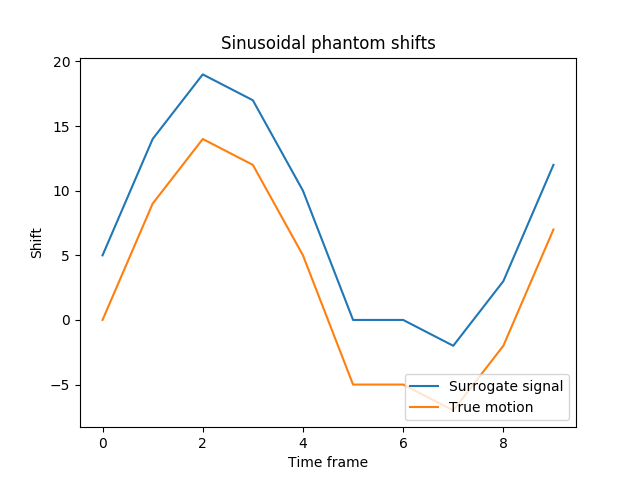
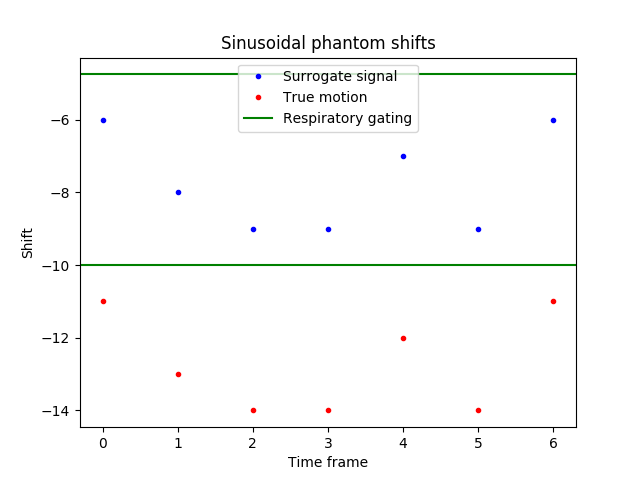
Implemented first version of gating

diff --git a/STIROefeningManon/MotionModelProjSpaceNoSTIR/MotionModelProjSpaceNoSTIR.py b/STIROefeningManon/MotionModelProjSpaceNoSTIR/MotionModelProjSpaceNoSTIR.py
@@ -14,17 +14,19 @@ motion = 'Sine'
 #stationary = True 
 stationary = False # Only possible for sinusoidal motion 
 
-nIt = 10 
+gating = True
+#gating = False 
+nIt = 3 
 trueShiftAmplitude = 15 # Kan niet alle waardes aannemen (niet alle shifts worden geprobeerd) + LET OP: kan niet groter zijn dan de lengte van het plaatje (kan de code niet aan) 
 trueOffset = 5
 numFigures = 0 
 duration = 60 # in seconds
 if (motion == 'Step'): nFrames = 2
-else: nFrames = 10
+else: nFrames = 40
 
 figSaveDir = mf.make_figSaveDir(motion, phantom, noise, stationary)
 
-mf.write_Configuration(figSaveDir, phantom, noise, motion, stationary, nIt, trueShiftAmplitude, trueOffset, duration, nFrames)
+mf.write_Configuration(figSaveDir, phantom, noise, motion, stationary, nIt, trueShiftAmplitude, trueOffset, duration, nFrames, gating)
 
 #_________________________MAKE PHANTOM_______________________________
 image2D = mf.make_Phantom(phantom, duration)
@@ -32,16 +34,19 @@ plt.figure(), plt.title('Original image'), plt.imshow(image2D, interpolation = N
 numFigures += 1
  
 #_________________________ADD MOTION_______________________________ 
-phantomList, surSignal, shiftList = mf.move_Phantom(motion, nFrames, trueShiftAmplitude, trueOffset, image2D, stationary)
+phantomList, surSignal, shiftList = mf.move_Phantom(motion, nFrames, trueShiftAmplitude, trueOffset, image2D, stationary, gating)
 originalImage = phantomList[0]
 
-for iFrame in range(nFrames):    
+for iFrame in range(len(phantomList)):    
     plt.subplot(2,nFrames/2+1,iFrame+1), plt.title('Time frame {0}'.format(iFrame)), plt.imshow(phantomList[iFrame][0,:,:], interpolation=None, vmin = 0, vmax = np.max(image2D)) 
 plt.suptitle('Phantom'), plt.savefig(figSaveDir + 'Fig{}_TrueShift{}_phantom.png'.format(numFigures, trueShiftAmplitude)), plt.close()
 numFigures += 1 
  
-plt.plot(range(nFrames), surSignal, label = 'Surrogate signal'), plt.title('Sinusoidal phantom shifts'), plt.xlabel('Time frame'), plt.ylabel('Shift')
-plt.plot(range(nFrames), shiftList, label = 'True motion'), plt.legend(loc = 4), plt.savefig(figSaveDir + 'Fig{}_TrueShift{}_shiftList.png'.format(numFigures, trueShiftAmplitude)), plt.close()
+plt.plot(range(len(surSignal)), surSignal, 'bo', label = 'Surrogate signal', markersize = 3), plt.title('Sinusoidal phantom shifts'), plt.xlabel('Time frame'), plt.ylabel('Shift')
+plt.plot(range(len(shiftList)), shiftList, 'ro', label = 'True motion', markersize = 3) 
+plt.axhline(y = -trueShiftAmplitude + trueOffset, color = 'g', label = 'Respiratory gating')
+plt.axhline(y = -0.65*trueShiftAmplitude + trueOffset, color = 'g')
+plt.legend(loc = 0), plt.savefig(figSaveDir + 'Fig{}_TrueShift{}_shiftList.png'.format(numFigures, trueShiftAmplitude)), plt.close()
 numFigures += 1 
 
 #_________________________MEASUREMENT, INITIAL GUESS, NORMALIZATION_______________________________

diff --git a/STIROefeningManon/MotionModelProjSpaceNoSTIR/ManonsFunctions.py b/STIROefeningManon/MotionModelProjSpaceNoSTIR/ManonsFunctions.py
@@ -35,7 +35,7 @@ def make_Phantom(phantom, duration):
 
     return image 
 
-def move_Phantom(motion, nFrames, trueShiftAmplitude, trueOffset, image, stationary): 
+def move_Phantom(motion, nFrames, trueShiftAmplitude, trueOffset, image, stationary, gating): 
     phantomList = [] 
     Nx = np.shape(image)[1] 
     Ny = np.shape(image)[0]
@@ -61,11 +61,12 @@ def move_Phantom(motion, nFrames, trueShiftAmplitude, trueOffset, image, station
 
     if (motion == 'Sine'):
         shiftList = [] 
+        surSignal = [] 
         for iFrame in range(nFrames): 
-            shift = int(trueShiftAmplitude * math.sin(2*math.pi*iFrame/9))
+            shift = int(trueShiftAmplitude * math.sin(2*math.pi*iFrame/19))
             if ((not stationary) and (iFrame > nFrames/2)): 
-                shift += int(0.5*trueShiftAmplitude) 
-            shiftList.append(shift) 
+                shift -= int(0.5*trueShiftAmplitude) 
+
             tmp = np.zeros((1, Ny, Nx))
             tmp[0] = image  
     
@@ -77,17 +78,26 @@ def move_Phantom(motion, nFrames, trueShiftAmplitude, trueOffset, image, station
                 tmp[0, 0:(Ny+shift), :] = tmp[0, (-shift):Ny, :]
                 tmp[0, (Ny+shift):Ny, :] = 0
 
-            phantomList.append(tmp) 
-            surSignal = [shiftList[i] + trueOffset for i in range(len(shiftList))]
+            phase = shift + trueOffset
+            if (gating): 
+                if ((phase >= -trueShiftAmplitude + trueOffset) and (phase <= -0.65*trueShiftAmplitude + trueOffset)): 
+                    phantomList.append(tmp) 
+                    surSignal.append(phase) 
+                    shiftList.append(shift) 
+            else: 
+                phantomList.append(tmp) 
+                surSignal.append(phase)
+                shiftList.append(shift) 
 
     return (phantomList, surSignal, shiftList) 
 
-def write_Configuration(figSaveDir, phantom, noise, motion, stationary, nIt, trueShiftAmplitude, trueOffset, duration, nFrames): 
+def write_Configuration(figSaveDir, phantom, noise, motion, stationary, nIt, trueShiftAmplitude, trueOffset, duration, nFrames, gating): 
     file = open(figSaveDir + "Configuratie.txt", "w")
     file.write("Phantom: {}\n".format(phantom))
     file.write("Noise: {}\n".format(noise))
     file.write("Motion: {}\n".format(motion))
     file.write("Stationary: {}\n".format(stationary)) 
+    file.write("Respiratory gating: {}\n".format(gating)) 
     file.write("Number of iterations: {}\n".format(nIt))
     file.write("True shift amplitude: {}\n".format(trueShiftAmplitude))
     file.write("True offset (motion model): {}\n".format(trueOffset))
